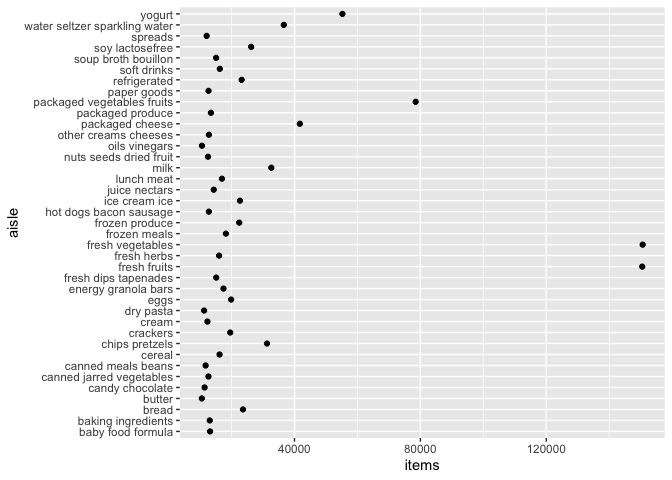
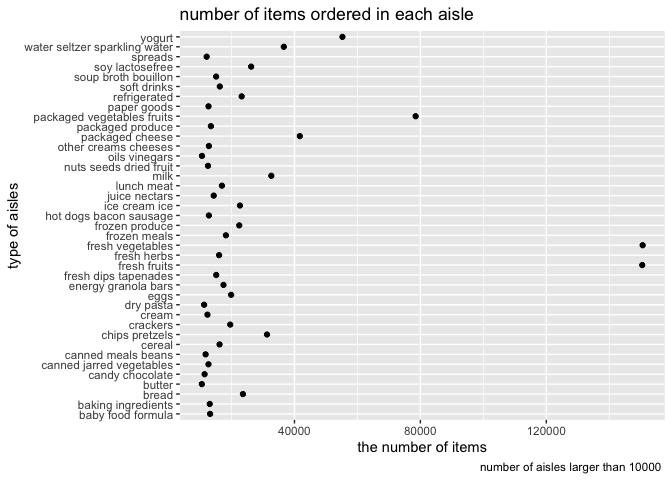
finish of problem 1

diff --git a/p8105_hw3_xc2472.md b/p8105_hw3_xc2472.md
@@ -5,7 +5,7 @@ Xing Chen
 
 # Problem 1
 
-## import the dataset instacart
+**import the dataset instacart**
 
 ``` r
 data("instacart")
@@ -53,6 +53,8 @@ instacart %>%
     ## 10 dry goods pasta            13.7
     ## # … with 11 more rows
 
+**Description**
+
 There are 1384617 observations in the instacart dataset. Each row
 represents a product from an order. There are 21 types of department in
 this dataset and the mean order hour of the day is for each department
@@ -61,8 +63,6 @@ are ordered and `order_day shows` the day of the week on which the order
 is placed. For example, the first row in the dataset tells us yogurt was
 ordered on Thursday and this product has been ordered by this person in
 the past.
-
-## 
 
 ``` r
 instacart %>% 
@@ -86,9 +86,10 @@ instacart %>%
     ## 10 bread                          23635
     ## # … with 124 more rows
 
-There are 134 aisles
+There are 134 aisles exist and the most ordered item is fresh
+vegetables.
 
-## 
+**Create a plot**
 
 ``` r
 instacart %>% 
@@ -96,29 +97,57 @@ instacart %>%
   summarize(items = n()) %>% 
   filter(items > 10000) %>% 
   ggplot(aes(x = items, y = aisle)) + 
-  geom_point()
+  geom_point() +
+  labs(
+    title = "number of items ordered in each aisle",
+    x = "the number of items",
+    y = "type of aisles",
+    caption = "number of aisles larger than 10000 "
+  )
 ```
 
 ![](p8105_hw3_xc2472_files/figure-gfm/unnamed-chunk-3-1.png)<!-- -->
-(how to make the plot readable?)
 
-## create a table showing the three most popular items
+From the graph, fresh vegetables and fresh fruits are ordered much more
+than other items. The ordered numbers of packaged vegetables fruits and
+yogurt also stand out.
+
+**Create a table**
 
 ``` r
 instacart %>% 
-  group_by(aisle) %>% 
-  summarize(items = n()) %>% 
-  filter(min_rank(desc(items)) < 4) %>% 
+  filter(
+    aisle %in% c("baking ingredients", "dog food care", "packaged vegetables fruits")
+  ) %>% 
+  group_by(aisle, product_name) %>% 
+  summarize(order_number = n()) %>% 
+  arrange(desc(order_number)) %>% 
+  filter(min_rank(desc(order_number)) < 4) %>% 
   knitr::kable()
 ```
 
-| aisle                      |  items |
-| :------------------------- | -----: |
-| fresh fruits               | 150473 |
-| fresh vegetables           | 150609 |
-| packaged vegetables fruits |  78493 |
+| aisle                      | product\_name                                 | order\_number |
+| :------------------------- | :-------------------------------------------- | ------------: |
+| packaged vegetables fruits | Organic Baby Spinach                          |          9784 |
+| packaged vegetables fruits | Organic Raspberries                           |          5546 |
+| packaged vegetables fruits | Organic Blueberries                           |          4966 |
+| baking ingredients         | Light Brown Sugar                             |           499 |
+| baking ingredients         | Pure Baking Soda                              |           387 |
+| baking ingredients         | Cane Sugar                                    |           336 |
+| dog food care              | Snack Sticks Chicken & Rice Recipe Dog Treats |            30 |
+| dog food care              | Organix Chicken & Brown Rice Recipe           |            28 |
+| dog food care              | Small Dog Biscuits                            |            26 |
 
-## a table showing the mean hour
+In packaged vegetables fruits aisle, organic baby spinach, organic
+raspberries, and organic blueberries are the 3 most ordered items with
+order number 9784, 5546, and 4966 respectively. In baking ingredients
+aisle, light brown sugar, pure baking soda, and cane sugar are the 3
+most ordered items with order number 499, 387, and 336 respectively. In
+dog food care aisle, snack sticks chicken & rice recipe dog treats,
+organix chicken & brown rice recipe, and small dog biscuits are the 3
+most ordered items, with order number 30, 28, 26 respectively.
+
+**Create a table**
 
 ``` r
 instacart %>% 
@@ -131,13 +160,18 @@ instacart %>%
     names_from = order_dow,
     values_from = mean_order_time
   ) %>% 
-  knitr::kable()
+  knitr::kable(digits = 2)
 ```
 
-| product\_name    |        0 |        1 |        2 |        3 |        4 |        5 |        6 |
-| :--------------- | -------: | -------: | -------: | -------: | -------: | -------: | -------: |
-| Coffee Ice Cream | 13.77419 | 14.31579 | 15.38095 | 15.31818 | 15.21739 | 12.26316 | 13.83333 |
-| Pink Lady Apples | 13.44118 | 11.36000 | 11.70213 | 14.25000 | 11.55172 | 12.78431 | 11.93750 |
+| product\_name    |     0 |     1 |     2 |     3 |     4 |     5 |     6 |
+| :--------------- | ----: | ----: | ----: | ----: | ----: | ----: | ----: |
+| Coffee Ice Cream | 13.77 | 14.32 | 15.38 | 15.32 | 15.22 | 12.26 | 13.83 |
+| Pink Lady Apples | 13.44 | 11.36 | 11.70 | 14.25 | 11.55 | 12.78 | 11.94 |
+
+For coffee ice cream, the mean order hour of a day for each day of the
+week is 13.77, 14.32, 15.38, 15.32, 15.22, 12.26, 13.83. For pink lady
+apples, the mean order hour of a day for each day of the week is 13.44,
+11.36, 11.70, 14.25, 11.55, 12.78, 11.94.
 
 # problem 2
 
